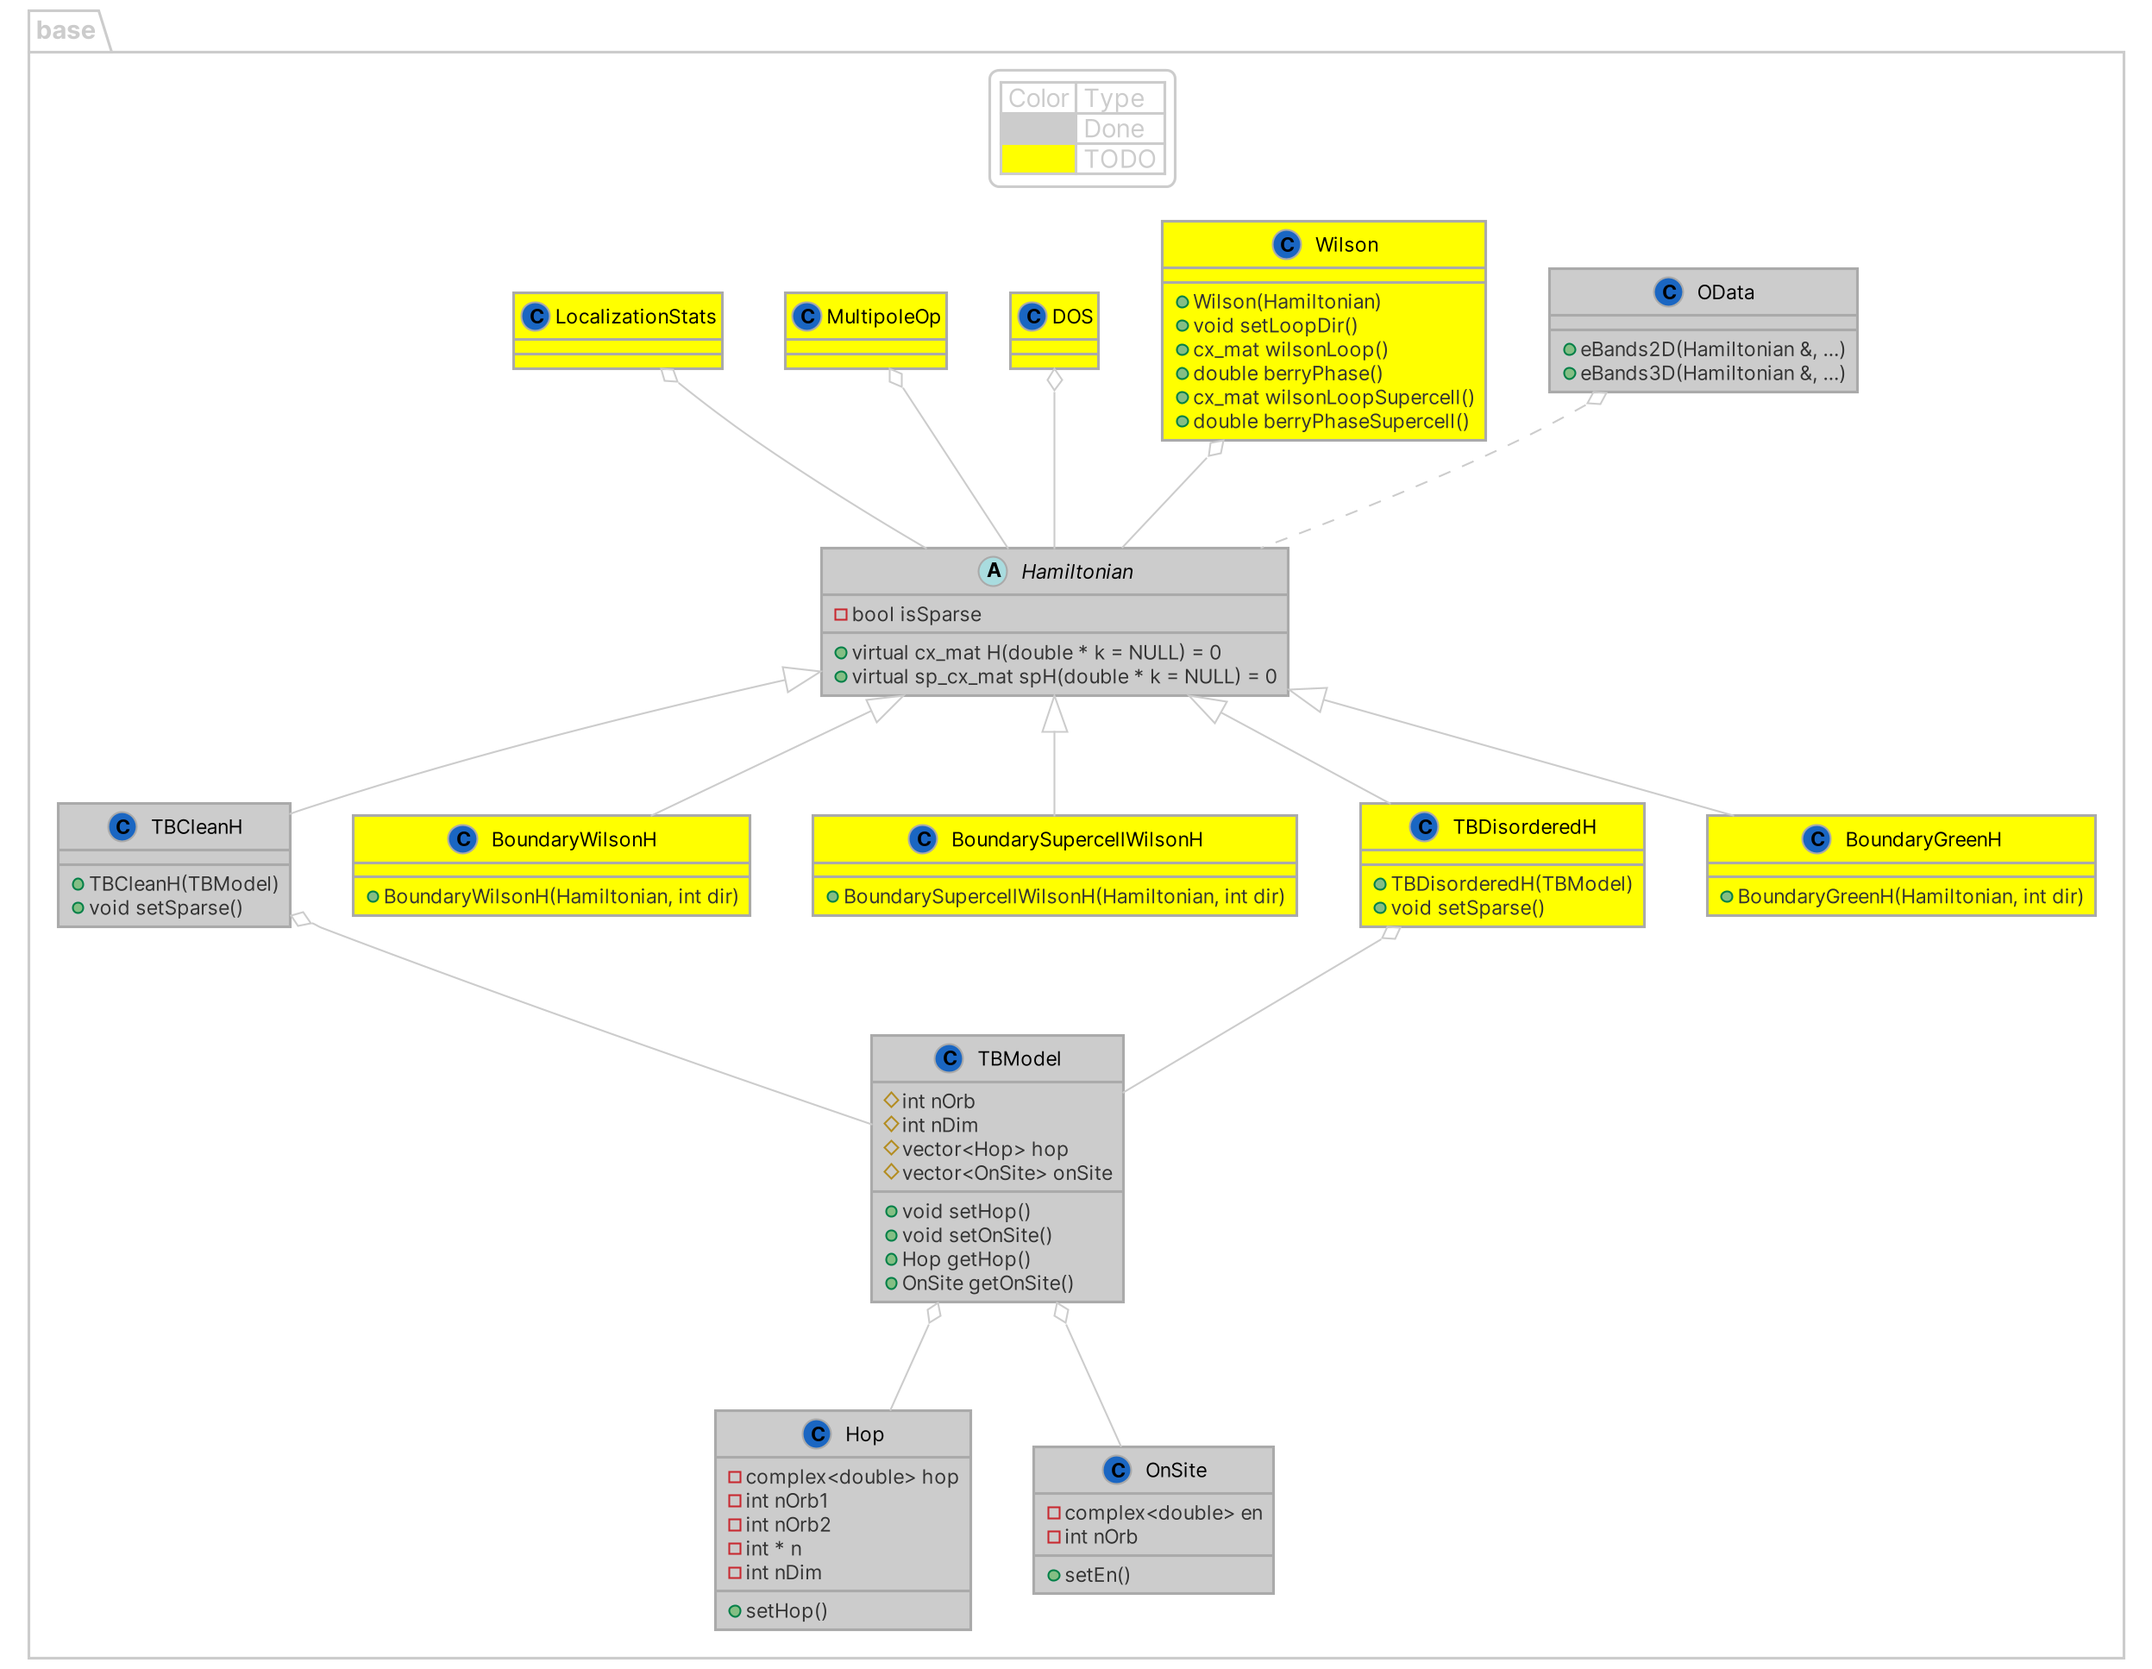
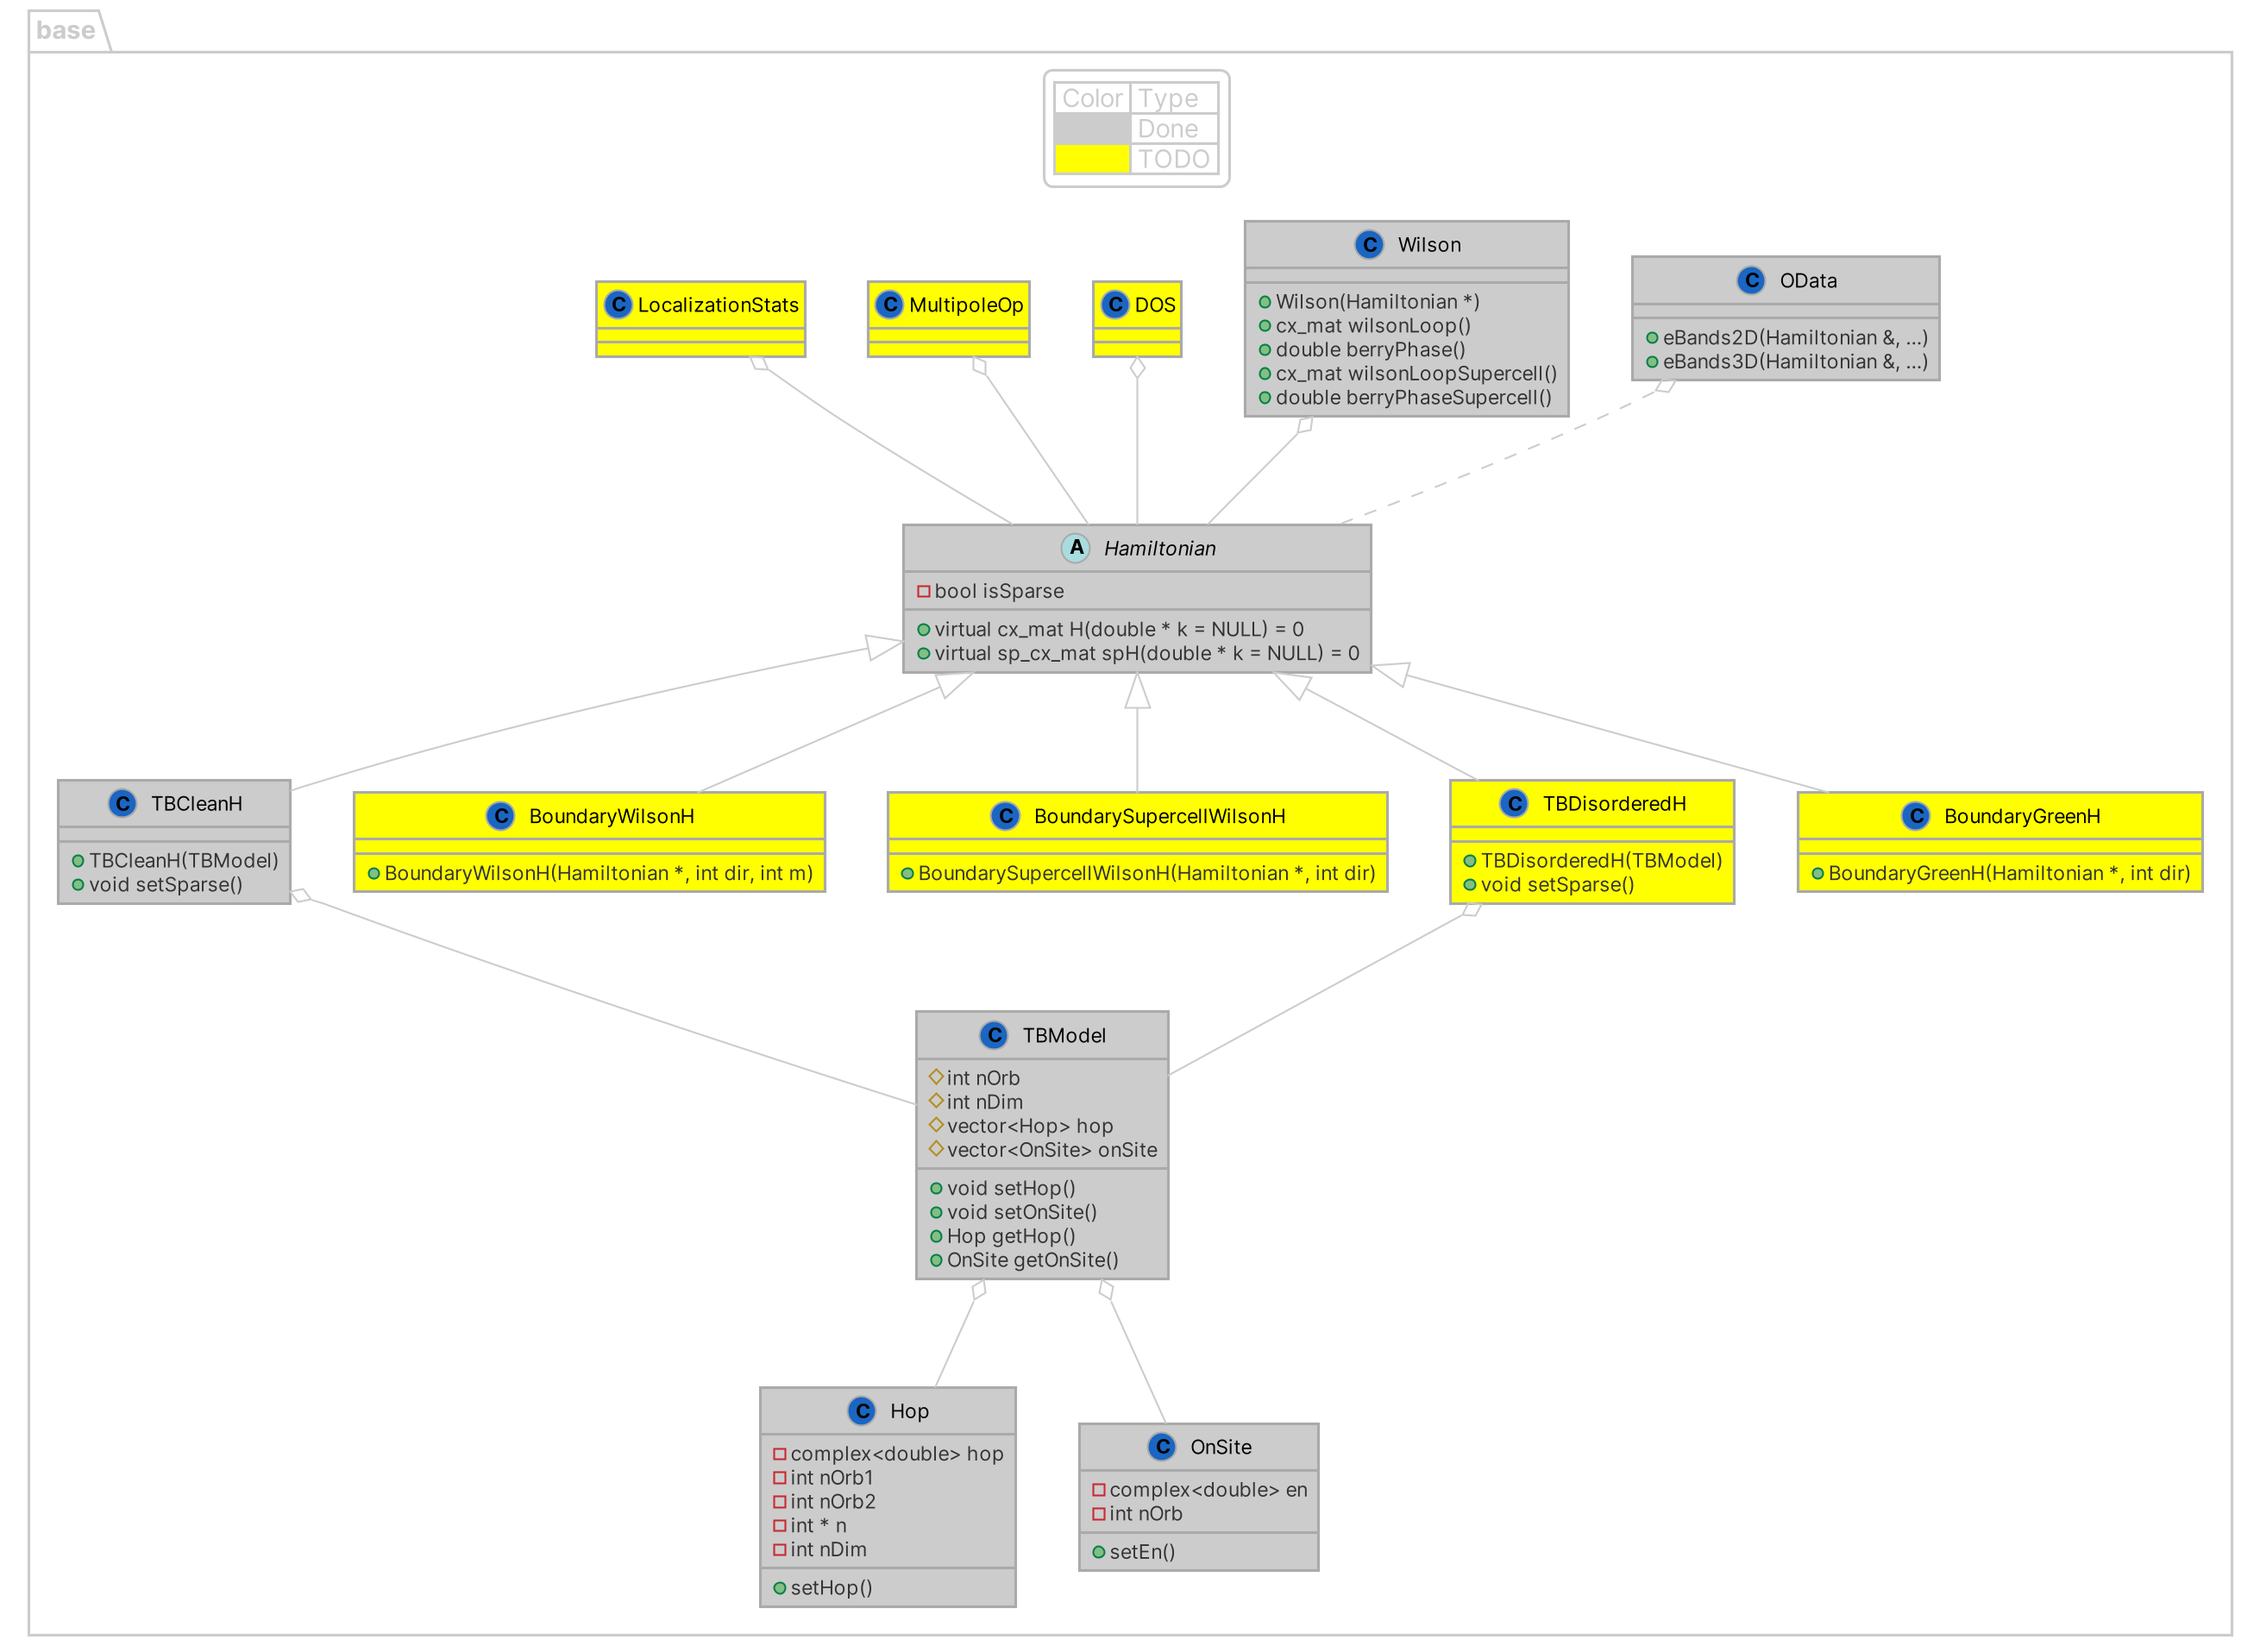
progress

diff --git a/app/test.cpp b/app/test.cpp
@@ -15,33 +15,29 @@ int main (int arc, char ** argv) {
   SSH ssh(1,2);
   cout << "SSH Berry phase inter 2: " << ssh.berryPhase(10) << endl;
   cout << "Supercell: " << ssh.berryPhaseSupercell(10,10) << endl;
-  ssh.getBands(argv[0], "EnergyBandsSSH_inter2.dat", 100);
   ssh.setInterHop(1);
   cout << "SSH Berry phase inter 1: " << ssh.berryPhase(10) << endl;
   cout << "Supercell: " << ssh.berryPhaseSupercell(10,10) << endl;
-  ssh.getBands(argv[0], "EnergyBandsSSH_inter1.dat", 100);
   ssh.setInterHop(0.5);
   cout << "SSH Berry phase inter 0.5: " << ssh.berryPhase(10) << endl;
   cout << "Supercell: " << ssh.berryPhaseSupercell(10,10) << endl;
-  ssh.getBands(argv[0], "EnergyBandsSSH_inter0.5.dat", 100);
 
   double k0[2] = {0, -M_PI};
+  int bC[2] = {2,1};
+  int l[2] = {10,10};
   cout << "2D SSH" << endl;
   SSH2D ssh2D(1,2);
   cout << "2D SSH Berry phase inter 2: " << ssh2D.berryPhase(100,0,k0) << endl;
-  cout << "Supercell: " << ssh2D.berryPhaseSupercell(10,0,10,10) << endl;
-  ssh2D.getBands(argv[0], "EnergyBandsSSH2D_inter2.dat", 20, 20);
+  cout << "Supercell: " << ssh2D.berryPhaseSupercell(10,0,bC,l,k0) << endl;
   ssh2D.setInterHop(1);
   cout << "2D SSH Berry phase inter 1: " << ssh2D.berryPhase(100,0,k0) << endl;
   //cout << "Supercell: " << ssh2D.berryPhaseSupercell(10,0,10,10) << endl;
-  ssh2D.getBands(argv[0], "EnergyBandsSSH2D_inter1.dat", 20, 20);
   ssh2D.setInterHop(0.5);
   cout << "2D SSH Berry phase inter 0.5: " << ssh2D.berryPhase(100,0,k0) << endl;
   cout << "2D SSH Berry phase inter 0.5: " << ssh2D.berryPhase(100,0,k0) << endl;
   cout << "2D SSH Berry phase inter 0.5: " << ssh2D.berryPhase(100,0,k0) << endl;
   cout << "2D SSH Berry phase inter 0.5: " << ssh2D.berryPhase(100,0,k0) << endl;
   //cout << "Supercell: " << ssh2D.berryPhaseSupercell(10,0,10,10) << endl;
-  ssh2D.getBands(argv[0], "EnergyBandsSSH2D_inter0.5.dat", 20, 20);
 
   cout << "2D BBH" << endl;
   BBH2D bbh2D(1,2);
@@ -55,7 +51,6 @@ int main (int arc, char ** argv) {
   }
   avgBerry /= 100;
   cout << "Average Berry Phase: " << avgBerry << endl;
-  bbh2D.getBands(argv[0], "EnergyBandsBBH2D_inter2.dat", 20, 20);
   bbh2D.setInterHop(1);
   cout << "2D BBH Berry phase inter 1: " << bbh2D.berryPhase(100,0,k0) << endl;
   avgBerry = 0;
@@ -64,7 +59,6 @@ int main (int arc, char ** argv) {
   }
   avgBerry /= 100;
   cout << "Average Berry Phase: " << avgBerry << endl;
-  bbh2D.getBands(argv[0], "EnergyBandsBBH2D_inter1.dat", 20, 20);
   bbh2D.setInterHop(0.5);
   cout << "2D BBH Berry phase inter 0.5: " << bbh2D.berryPhase(100,0,k0) << endl;
   avgBerry = 0;
@@ -73,7 +67,6 @@ int main (int arc, char ** argv) {
   }
   avgBerry /= 100;
   cout << "Average Berry Phase: " << avgBerry << endl;
-  bbh2D.getBands(argv[0], "EnergyBandsBBH2D_inter0.5.dat", 20, 20);
 
   return 0;
 }

diff --git a/models/src/BBH2D.cpp b/models/src/BBH2D.cpp
@@ -4,8 +4,7 @@
 BBH2D::BBH2D(double t1, double t2){
   model = new TBModel(2, 4);
   int n1[2] = {0,0};
-  int n2[2] = {1,0};
-  int n3[2] = {0,1};
+  int n2[2] = {1,0}; int n3[2] = {0,1};
   //Intracell hoppings
   model->setHop(0,1, n1, t1);
   model->setHop(0,2, n1, -t1);
@@ -17,9 +16,6 @@ BBH2D::BBH2D(double t1, double t2){
   model->setHop(2,0, n3, -t2);
   model->setHop(3,1, n3, t2);
   ham = new TBCleanH(*model);
-  int bC[2] = {1,1};
-  ham->setBC(bC);
-  ham->setSparse(true);
 };
 
 BBH2D::~BBH2D(){
@@ -34,9 +30,6 @@ void BBH2D::setIntraHop(double t1){
   model->getHop(3).setHop(t1);
   delete ham;
   ham = new TBCleanH(*model);
-  int bC[2] = {1,1};
-  ham->setBC(bC);
-  ham->setSparse(true);
 }
 
 void BBH2D::setInterHop(double t2){
@@ -46,9 +39,6 @@ void BBH2D::setInterHop(double t2){
   model->getHop(7).setHop(t2);
   delete ham;
   ham = new TBCleanH(*model);
-  int bC[2] = {1,1};
-  ham->setBC(bC);
-  ham->setSparse(true);
 }
 
 void BBH2D::getBands(char * argv0, string fileName, int nx, int ny){
@@ -57,6 +47,8 @@ void BBH2D::getBands(char * argv0, string fileName, int nx, int ny){
 }
 
 double BBH2D::berryPhase(int n, int dir, double * k0){
+  int bC[2] = {1,1};
+  ham->setBC(bC);
   ham->setSparse(true);
   Wilson wilson(ham);
   wilson.setLoopDir(dir);
@@ -64,4 +56,16 @@ double BBH2D::berryPhase(int n, int dir, double * k0){
     wilson.setLoopStart(k0);
   }
   return wilson.berryPhase(n, 1);
+}
+
+void BBH2D::getWannierBands(char * argv0, string fileName, int dir, int n){
+  if(boundH != NULL){
+    delete[] boundH;
+  }
+  int bC[2] = {1,1};
+  ham->setBC(bC);
+  ham->setSparse(true);
+  boundH = new BoundaryWilsonH(ham, dir, n, 2);
+  OData o(argv0, fileName);
+  o.eBands2D(*boundH, 100);
 }

diff --git a/app/energyBands.cpp b/app/energyBands.cpp
@@ -1,0 +1,40 @@
+// basic file operations
+#include <iostream>
+#include <armadillo>
+#include "OData.h"
+#include "SSH.h"
+#include "SSH2D.h"
+#include "BBH2D.h"
+
+using namespace std;
+using namespace arma;
+
+int main (int arc, char ** argv) {
+
+  cout << "1D SSH" << endl;
+  SSH ssh(1,2);
+  ssh.getBands(argv[0], "EnergyBandsSSH_inter2.dat", 100);
+  ssh.setInterHop(1);
+  ssh.getBands(argv[0], "EnergyBandsSSH_inter1.dat", 100);
+  ssh.setInterHop(0.5);
+  ssh.getBands(argv[0], "EnergyBandsSSH_inter0.5.dat", 100);
+
+  cout << "2D SSH" << endl;
+  SSH2D ssh2D(1,2);
+  ssh2D.getBands(argv[0], "EnergyBandsSSH2D_inter2.dat", 20, 20);
+  ssh2D.setInterHop(1);
+  ssh2D.getBands(argv[0], "EnergyBandsSSH2D_inter1.dat", 20, 20);
+  ssh2D.setInterHop(0.5);
+  ssh2D.getBands(argv[0], "EnergyBandsSSH2D_inter0.5.dat", 20, 20);
+
+  cout << "2D BBH" << endl;
+  BBH2D bbh2D(1,2);
+  bbh2D.getBands(argv[0], "EnergyBandsBBH2D_inter2.dat", 20, 20);
+  bbh2D.setInterHop(1);
+  bbh2D.getBands(argv[0], "EnergyBandsBBH2D_inter1.dat", 20, 20);
+  bbh2D.setInterHop(0.5);
+  bbh2D.getBands(argv[0], "EnergyBandsBBH2D_inter0.5.dat", 20, 20);
+  bbh2D.getWannierBands(argv[0], "WannierBandsBBH2D_inter0.5_x.dat", 0, 10); 
+
+  return 0;
+}

diff --git a/base/src/Wilson.cpp b/base/src/Wilson.cpp
@@ -111,7 +111,7 @@ cx_mat Wilson::wilsonLoopSupercell(int n, int m, double * k){
     eigs_gen(eigVal, eigVec1, ham->spH(k), m, "sr");
     cx_mat eigVec2 = eigVec1;
 
-    cx_mat u = eigVec0.t() * eigVec1;
+    u = eigVec0.t() * eigVec1;
 
     for(int i = 2; i < n; i++){
       eigVec1 = eigVec2;
@@ -128,7 +128,7 @@ cx_mat Wilson::wilsonLoopSupercell(int n, int m, double * k){
     cx_mat eigVec1 = evOcc(m, ham->H(k));
     cx_mat eigVec2 = eigVec1;
 
-    cx_mat u = eigVec0.t() * eigVec1;
+    u = eigVec0.t() * eigVec1;
 
     for(int i = 2; i < n; i++){
       eigVec1 = eigVec2;
@@ -140,7 +140,7 @@ cx_mat Wilson::wilsonLoopSupercell(int n, int m, double * k){
     u = u * (eigVec2.t() * eigVec0);
   }
 
-  cout << "ola2" << endl;
+  //cout << "ola2" << endl;
   delete[] theta;
   return u;
 }

diff --git a/models/src/SSH2D.cpp b/models/src/SSH2D.cpp
@@ -57,13 +57,25 @@ double SSH2D::berryPhase(int n, int dir, double * k0){
   return wilson.berryPhase(n, 1);
 }
 
-double SSH2D::berryPhaseSupercell(int n, int dir, int lX, int lY){
-  int bC[2] = {2,2};
-  int lVec[2] = {lX, lY};
+double SSH2D::berryPhaseSupercell(int n, int dir, int * bC, int * lVec, double * k){
   ham->setBC(bC);
   ham->setSize(lVec);
   ham->setSparse(true);
   Wilson wilson(ham);
   wilson.setLoopDir(dir);
-  return wilson.berryPhaseSupercell(n,lX*lY);
+  int m = lVec[dir];
+  for(int i = 0; i < ham->getNDim(); i++){
+    if(i != dir && bC[i] != 1){
+      m*=lVec[i];
+    }
+  }
+  return wilson.berryPhaseSupercell(n,m,k);
 }
+
+/*
+   cx_mat SSH2D::getH(int * bC, int * l, double * k){
+   ham->setBC(bC);
+   ham->setSize(l);
+   return ham->
+   }
+   */

diff --git a/models/include/BBH2D.h b/models/include/BBH2D.h
@@ -5,6 +5,7 @@
 #include <armadillo>
 #include <string>
 #include "Wilson.h"
+#include "BoundaryWilsonH.h"
 
 using namespace arma;
 using namespace std;
@@ -16,13 +17,16 @@ class BBH2D{
 
     void setIntraHop(double);
     void setInterHop(double);
-    void setSparse(bool);
+    //void setSparse(bool);
 
     double berryPhase(int n, int dir = 0, double * k0 = NULL);
-    void getBands(char * arv0, string fileName, int nx, int ny);
+    void getBands(char * argv0, string fileName, int nx, int ny);
+    void getWannierBands(char * argv0, string fileName, int dir, int n);
+    //double getQuadrupoleNested(int nx, int ny, double * k0 = NULL);
   private:
     TBModel * model;
     TBCleanH * ham;
+    BoundaryWilsonH * boundH;
 };
 
 #endif

diff --git a/base/src/BoundaryWilsonH.cpp b/base/src/BoundaryWilsonH.cpp
@@ -1,0 +1,24 @@
+#include "BoundaryWilsonH.h"
+
+BoundaryWilsonH::BoundaryWilsonH(Hamiltonian * h, int dir, int n, int m) : wilson(h), Hamiltonian(h->getNDim() -1){
+  ham = h;
+  this->dir = dir;
+  wilson.setLoopDir(dir);
+  nOcc = m;
+  nK = n;
+  isSparse = false;
+}
+
+BoundaryWilsonH::~BoundaryWilsonH(){
+}
+
+cx_mat BoundaryWilsonH::H(double * k){
+  wilson.setLoopStart(k);
+  complex<double> ii(0,1);
+  return (-ii)*logmat(wilson.wilsonLoop(nK, nOcc));
+}
+
+sp_cx_mat BoundaryWilsonH::spH(double * k){
+  cout << "Hamiltonian resulting of Wilson loop is not a sparse matrix" << endl;
+  return sp_cx_mat();
+}

diff --git a/models/include/SSH2D.h b/models/include/SSH2D.h
@@ -16,11 +16,12 @@ class SSH2D{
 
     void setIntraHop(double);
     void setInterHop(double);
-    void setSparse(bool);
+    //void setSparse(bool);
 
     double berryPhase(int n, int dir = 0, double * k0 = NULL);
-    double berryPhaseSupercell(int n, int dir, int lX, int lY);
+    double berryPhaseSupercell(int n, int dir, int * bC, int * lVec, double * k = NULL);
     void getBands(char * arv0, string fileName, int nx, int ny);
+    //cx_mat getH(int * bC, int * l, bool sparse);
   private:
     TBModel * model;
     TBCleanH * ham;

diff --git a/base/include/BoundaryWilsonH.h b/base/include/BoundaryWilsonH.h
@@ -1,0 +1,25 @@
+#ifndef BOUNDARYWILSONH_H
+#define BOUNDARYWILSONH_H
+
+#include "Hamiltonian.h"
+#include "Wilson.h"
+
+class BoundaryWilsonH : public Hamiltonian{
+  public:
+    //n loop steps, m occupied bands
+    BoundaryWilsonH(Hamiltonian * h, int dir, int n, int m);
+    ~BoundaryWilsonH();
+
+    cx_mat H(double * k = NULL);
+    sp_cx_mat spH(double * k = NULL);
+
+  private:
+    //Parent hamiltonian
+    Hamiltonian * ham;
+    Wilson wilson;
+    int dir;
+    int nOcc;
+    int nK;
+};
+
+#endif
